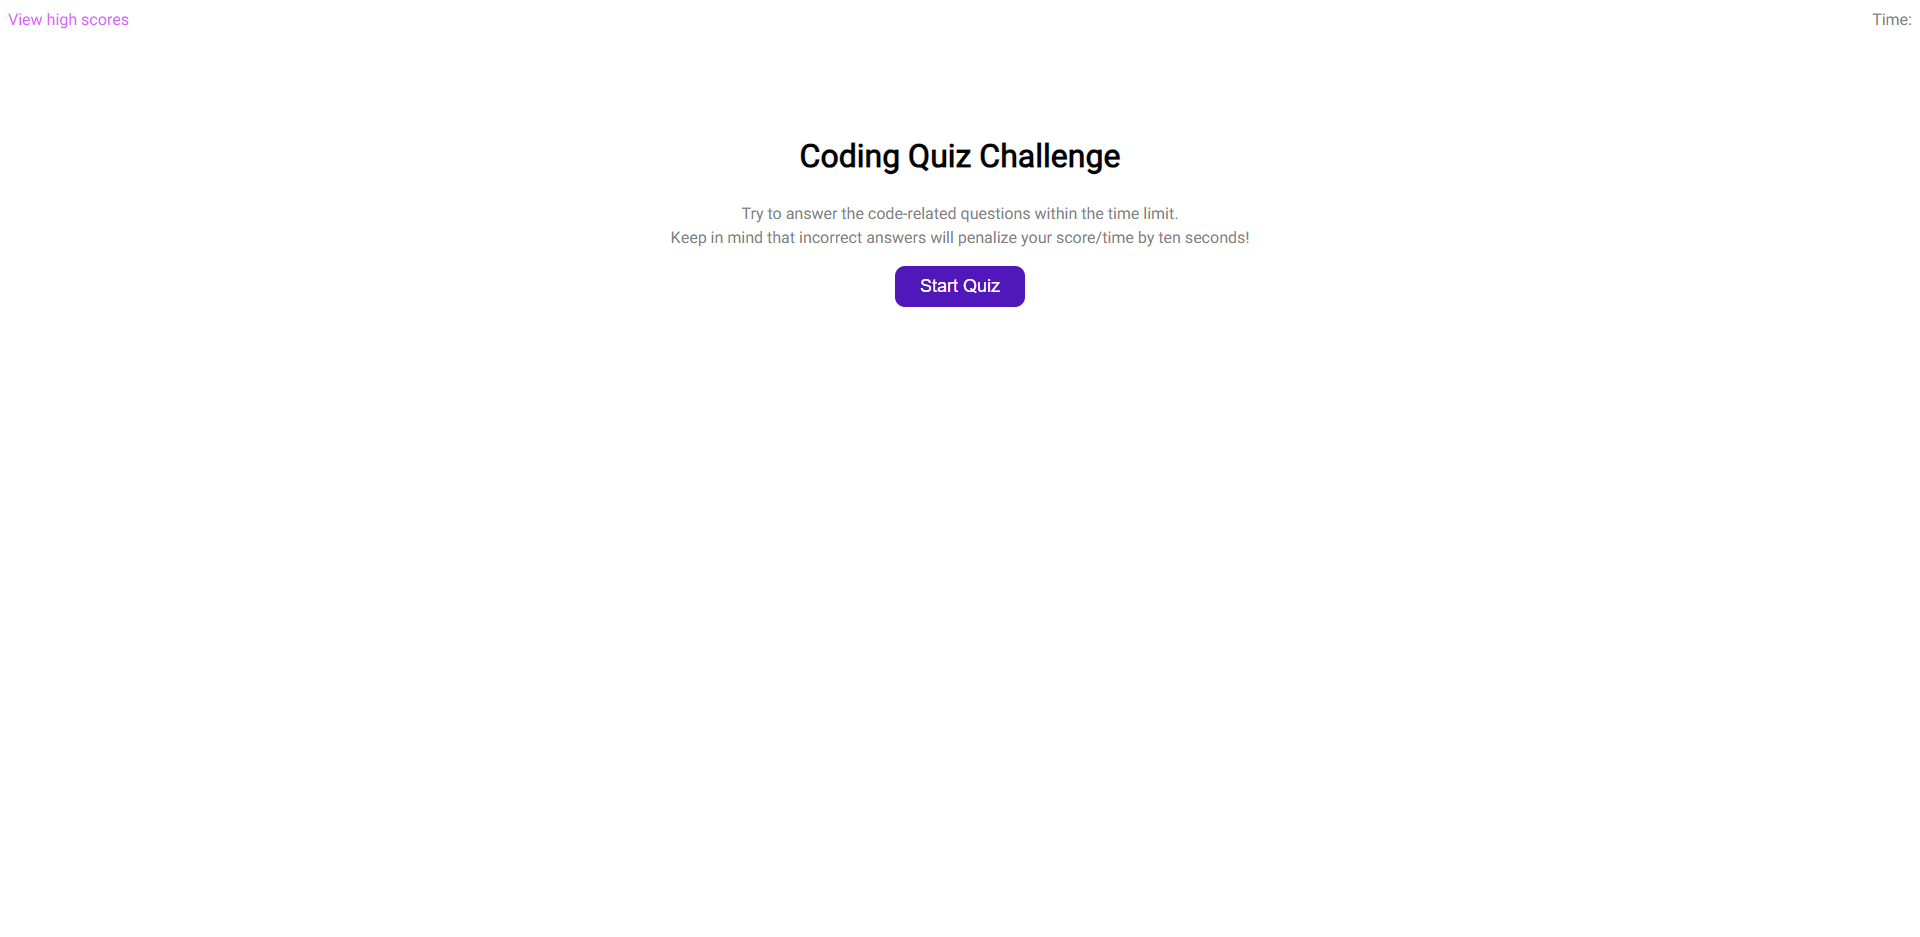
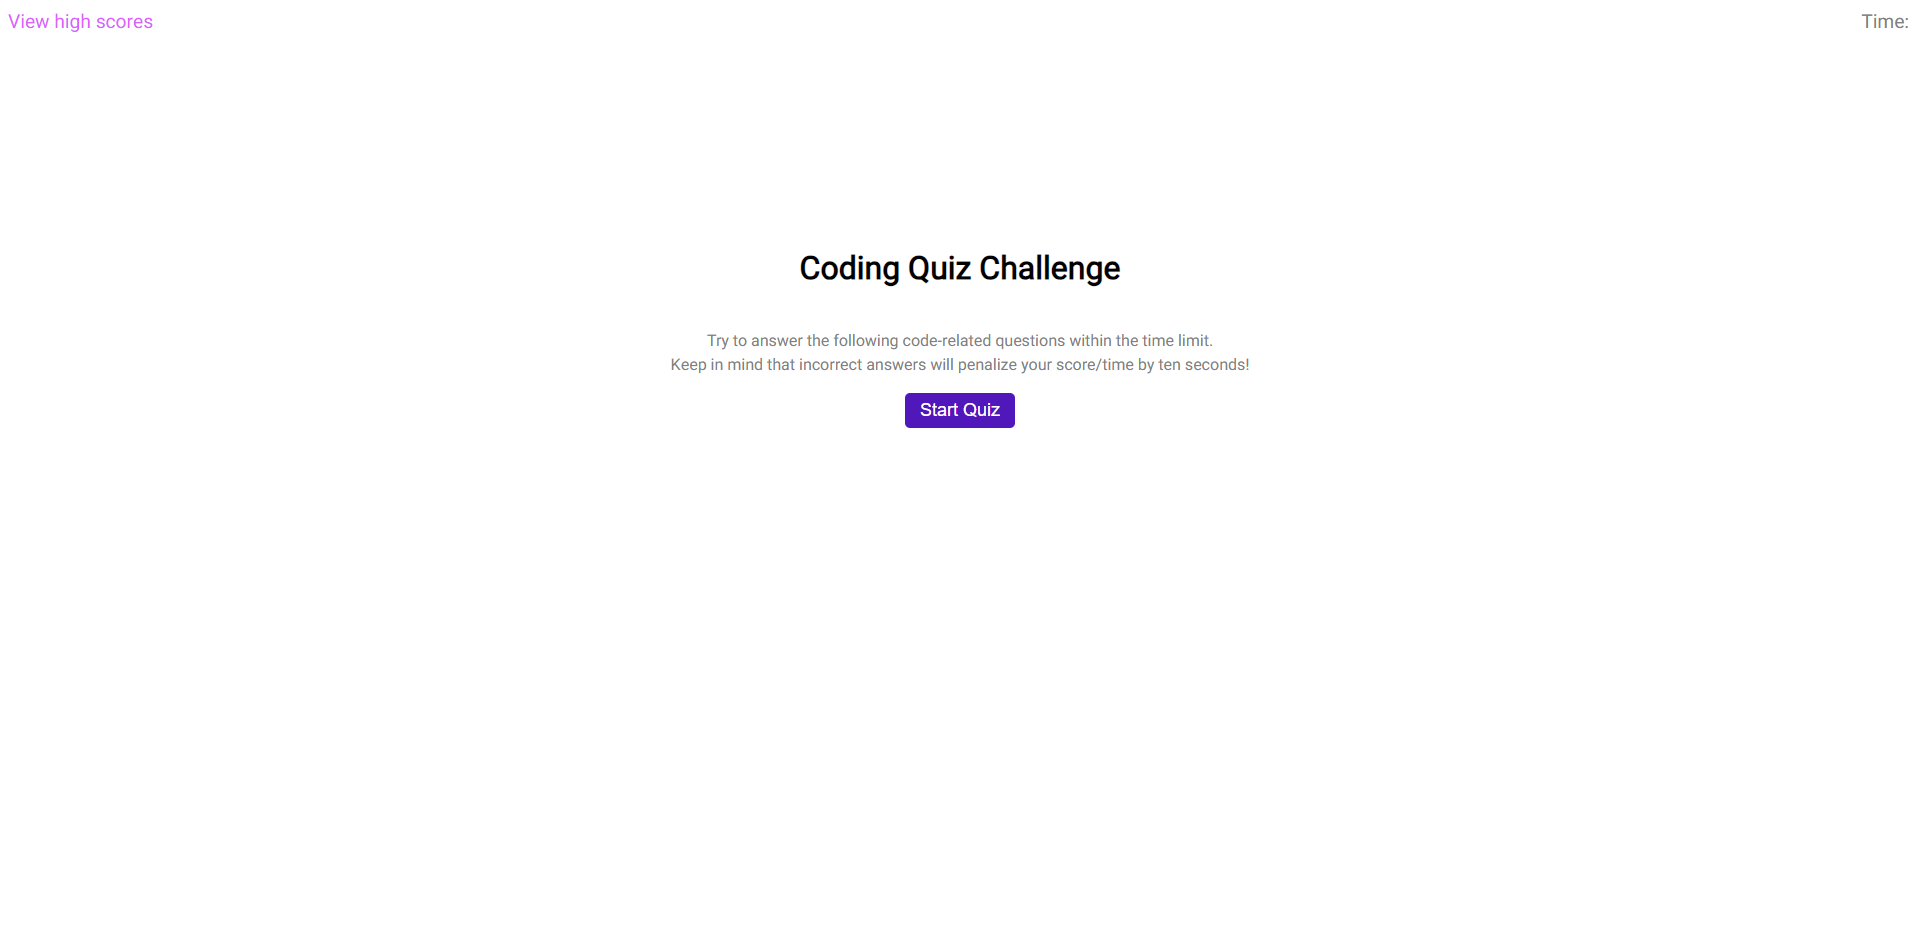
added comments to script.js, updated screenshot

diff --git a/assets/js/script.js b/assets/js/script.js
@@ -1,4 +1,6 @@
-// Global Definitions
+// ------------------- Global Definitions -------------------
+    // Comment follow-along starts at 220
+
 var rootEl = document.querySelector("#root");
 var timerEl = document.querySelector("#countdown");
 var headEl = document.createElement("h1");
@@ -84,6 +86,9 @@ function endQuiz(timeLeft) {
         localStorage.setItem("initials", initials);
         localStorage.setItem("score", timeLeft);
 
+        //  The code above preps the score submission screen then waits for the
+        //  user to click submit to then send them to the High Scores page.
+
         window.location.href = "./assets/scores/scores.html";
     })
     
@@ -109,8 +114,9 @@ function nextQuestion() {
 }
 
 function startTimer() {
-    var timeLeft = 10000;
+    var timeLeft = 75;
 
+    //  This looks at what question the user is on, what the right answer is, and what the user selected
     listEl.addEventListener("click", function (event) {
         event.preventDefault();
 
@@ -209,11 +215,16 @@ function startQuiz() {
     listEl.append(choice4);
 
     rootEl.append(listEl);
-    
+
+    //  The first question is prepared, now the timer starts    -> 119
     startTimer();
 };
 
-// Launch Procedure
+// ------------------- Launch Procedure -------------------
+
+    //  This is where content and data for the start screen is prepared
+    //  and added to the page until...
+
 headEl.innerHTML = "Coding Quiz Challenge";
 descriptionEl.innerHTML = "Try to answer the following code-related questions within the time limit.<br/> Keep in mind that incorrect answers will penalize your score/time by ten seconds!";
 startBtn.innerHTML = "Start Quiz";
@@ -241,4 +252,5 @@ rootEl.append(incorrect);
 containerEl.append(labelEl);
 containerEl.append(inputEl);
 
+    //  the user wants to start.   -> 196
 startBtn.addEventListener("click", startQuiz);

diff --git a/assets/scores/style.css b/assets/scores/style.css
@@ -42,6 +42,10 @@ button {
     margin-left: 10px;
 }
 
+button:active {
+    background-color: var(--pink);
+}
+
 @media screen and (max-width: 992px) {
     body {
         margin: 15vh 10%;
